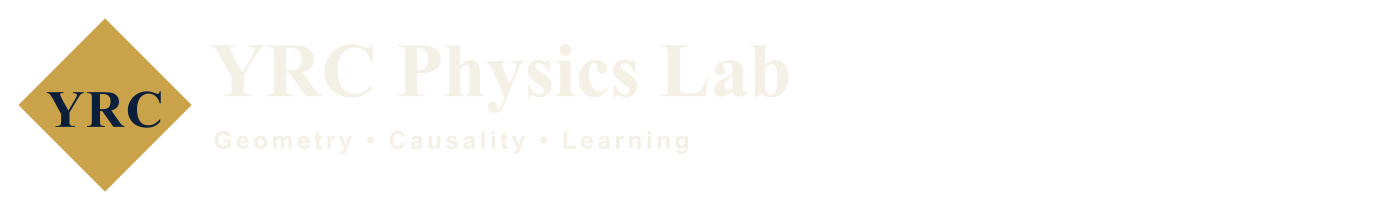
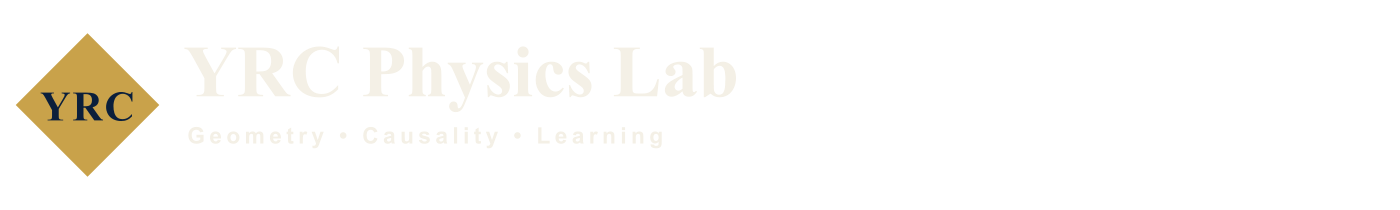
Refine YRC lockup: strict vertical alignment of mark and text

Changed region(s): [[0.0307, 0.0857, 0.5836, 0.9143], [0.3071, 0.4857, 0.3686, 0.5429]]

diff --git a/src/components/site/SiteHeader.tsx b/src/components/site/SiteHeader.tsx
@@ -108,7 +108,7 @@ export function SiteHeader() {
                   src="/brand/yrc-lockup-header-light.png"
                   alt="YRC Physics Lab"
                   width={1400}
-                  height={120}
+                  height={210}
                   className="block h-[52px] w-auto max-w-[min(90vw,44rem)] object-contain dark:hidden md:h-[60px]"
                   style={{ width: "auto" }}
                 />
@@ -116,7 +116,7 @@ export function SiteHeader() {
                   src="/brand/yrc-lockup-header-dark.png"
                   alt="YRC Physics Lab"
                   width={1400}
-                  height={120}
+                  height={210}
                   className="hidden h-[52px] w-auto max-w-[min(90vw,44rem)] object-contain dark:block md:h-[60px]"
                   style={{ width: "auto" }}
                 />
